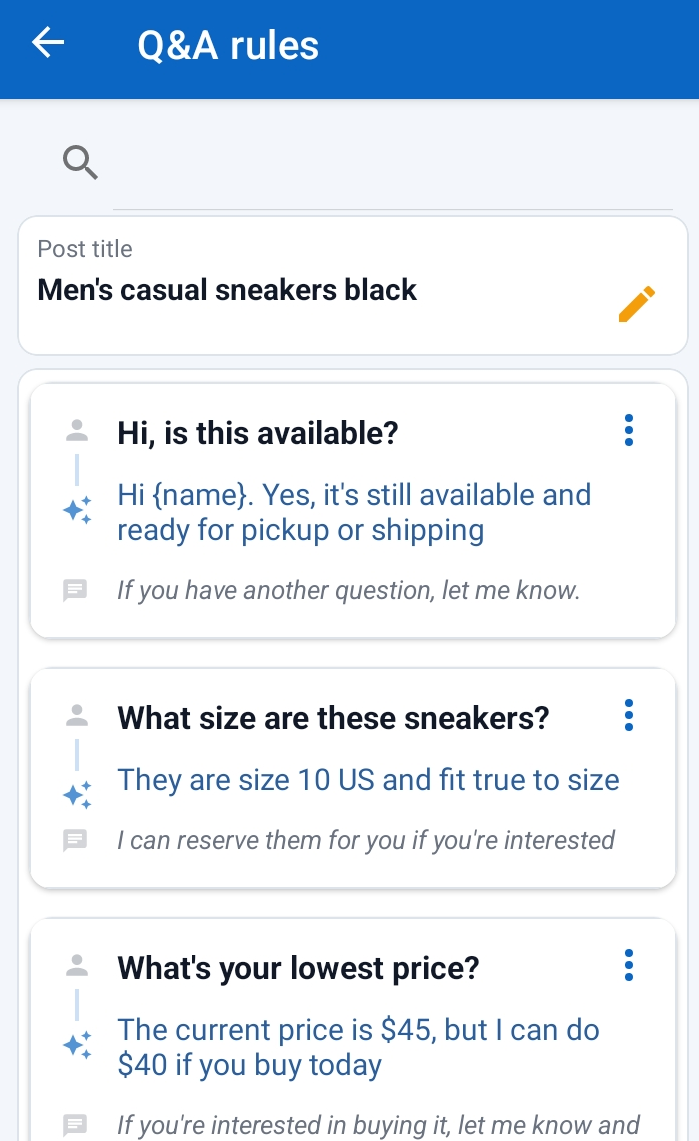
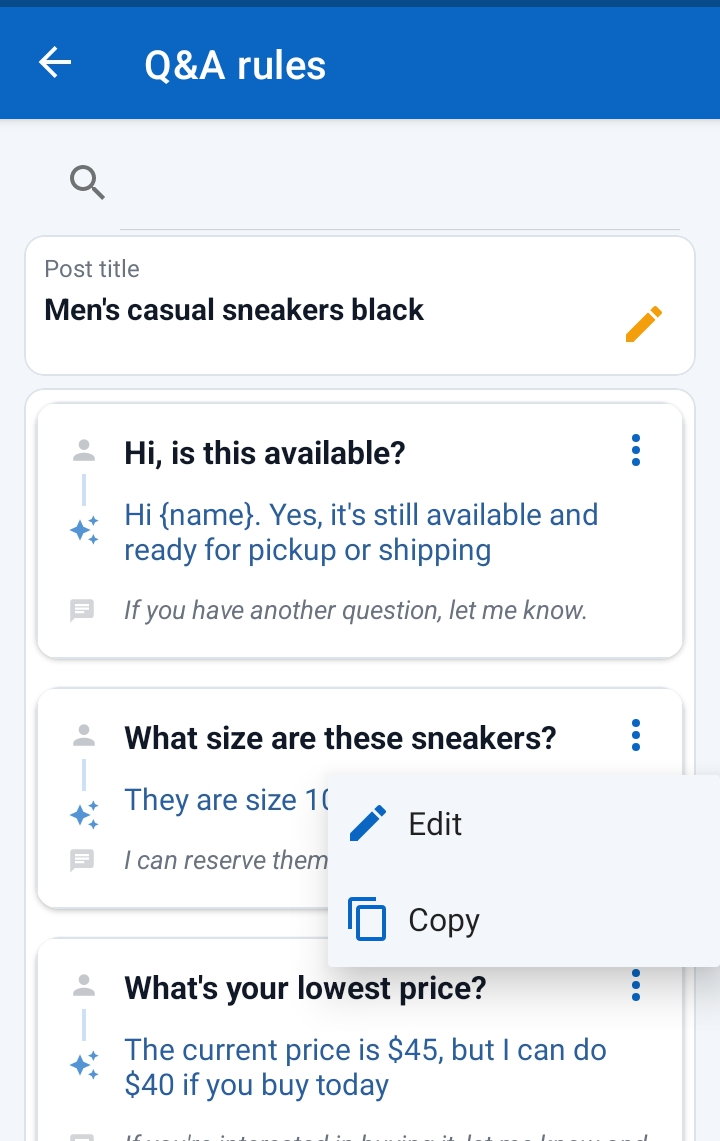
screenshot carousel

diff --git a/components/Screenshots.tsx b/components/Screenshots.tsx
@@ -7,27 +7,37 @@ const screenshots = [
   {
     src: "/images/screenshots/screenshot1.png",
     alt: "SellerResponder dashboard screenshot",
-    caption: "SellerResponder dashboard.",
+    caption: "Everything you need, all in one place.",
   },
   {
     src: "/images/screenshots/screenshot2.png",
-    alt: "SellerResponder templates screenshot",
-    caption: "Custom message templates for faster answers.",
+    alt: "SellerResponder add title screenshot",
+    caption: "Add or edit the exact title of your Marketplace listing.",
   },
   {
     src: "/images/screenshots/screenshot3.png",
-    alt: "SellerResponder automation screenshot",
-    caption: "Automatic greeting and response flow.",
+    alt: "SellerResponder view, copy, edit screenshot",
+    caption: "View, copy, edit, or delete your saved post titles.",
   },
   {
     src: "/images/screenshots/screenshot4.png",
-    alt: "SellerResponder setup screenshot",
-    caption: "Easy Android setup and app controls.",
+    alt: "SellerResponder questions and responses screenshot",
+    caption: "Turn common questions into automatic responses.",
   },
   {
     src: "/images/screenshots/screenshot5.png",
-    alt: "SellerResponder sales screenshot",
-    caption: "Performance and chat tools in one view.",
+    alt: "SellerResponder view, copy, edit replies screenshot",
+    caption: "View, copy, edit, or delete your automatic replies.",
+  },
+    {
+    src: "/images/screenshots/screenshot6.png",
+    alt: "SellerResponder test screenshot",
+    caption: "Test your automatic replies before going live.",
+  },
+  {
+    src: "/images/screenshots/screenshot7.png",
+    alt: "SellerResponder setup screenshot",
+    caption: "Customize how automatic replies work.",
   },
 ];
 
@@ -40,6 +50,14 @@ export default function Screenshots() {
     const item = carousel?.children[index] as HTMLElement | undefined;
     if (!carousel || !item) return;
     carousel.scrollTo({ left: item.offsetLeft, behavior: "smooth" });
+  };
+
+  const handlePrev = () => {
+    scrollToIndex(Math.max(0, activeIndex - 1));
+  };
+
+  const handleNext = () => {
+    scrollToIndex(Math.min(screenshots.length - 1, activeIndex + 1));
   };
 
   useEffect(() => {
@@ -79,42 +97,46 @@ export default function Screenshots() {
       </div>
 
       <div className="mt-12">
-        <div
-          ref={carouselRef}
-          className="flex snap-x snap-mandatory gap-6 overflow-x-auto pb-6 scroll-smooth"
-        >
-          {screenshots.map((screenshot) => (
-            <figure
-              key={screenshot.src}
-              className="snap-start flex-shrink-0 w-[220px] overflow-hidden rounded-[1.75rem] border border-slate-200 bg-white shadow-sm shadow-slate-200/40 md:w-[240px]"
-            >
-              <div className="relative aspect-[4/6] bg-slate-100">
-                <Image
-                  src={screenshot.src}
-                  alt={screenshot.alt}
-                  fill
-                  className="object-cover"
-                  sizes="(max-width: 768px) 220px, 240px"
-                />
-              </div>
-              <figcaption className="px-5 py-4 text-sm leading-6 text-slate-600">
-                {screenshot.caption}
-              </figcaption>
-            </figure>
-          ))}
-        </div>
+        <div className="relative">
+          <div
+            ref={carouselRef}
+            className="flex snap-x snap-mandatory gap-6 overflow-x-auto pb-6 scroll-smooth scrollbar-none"
+          >
+            {screenshots.map((screenshot) => (
+              <figure
+                key={screenshot.src}
+                className="snap-start flex-shrink-0 w-[220px] overflow-hidden rounded-[1.75rem] border border-slate-200 bg-white shadow-sm shadow-slate-200/40 md:w-[240px]"
+              >
+                <div className="relative aspect-[4/6] bg-slate-100">
+                  <Image
+                    src={screenshot.src}
+                    alt={screenshot.alt}
+                    fill
+                    className="object-cover"
+                    sizes="(max-width: 768px) 220px, 240px"
+                  />
+                </div>
+                <figcaption className="px-5 py-4 text-sm leading-6 text-slate-600">
+                  {screenshot.caption}
+                </figcaption>
+              </figure>
+            ))}
+          </div>
 
-        <div className="mt-6 flex justify-center gap-2">
-          {screenshots.map((_, index) => (
-            <button
-              key={index}
-              onClick={() => scrollToIndex(index)}
-              className={`h-2.5 w-2.5 rounded-full transition ${
-                index === activeIndex ? "bg-slate-950" : "bg-slate-300"
-              }`}
-              aria-label={`Go to screenshot ${index + 1}`}
-            />
-          ))}
+          <button
+            onClick={handlePrev}
+            className="hidden sm:flex absolute left-0 top-1/2 z-10 -translate-y-1/2 rounded-full bg-[#0A66C2] p-3 text-lg text-white shadow-xl shadow-slate-200/40 transition hover:bg-[#084B8A]"
+            aria-label="Previous screenshot"
+          >
+            ‹
+          </button>
+          <button
+            onClick={handleNext}
+            className="hidden sm:flex absolute right-0 top-1/2 z-10 -translate-y-1/2 rounded-full bg-[#0A66C2] p-3 text-lg text-white shadow-xl shadow-slate-200/40 transition hover:bg-[#084B8A]"
+            aria-label="Next screenshot"
+          >
+            ›
+          </button>
         </div>
       </div>
     </section>

diff --git a/app/globals.css b/app/globals.css
@@ -24,3 +24,12 @@ body {
   color: var(--foreground);
   font-family: Arial, Helvetica, sans-serif;
 }
+
+.scrollbar-none {
+  -ms-overflow-style: none;
+  scrollbar-width: none;
+}
+
+.scrollbar-none::-webkit-scrollbar {
+  display: none;
+}